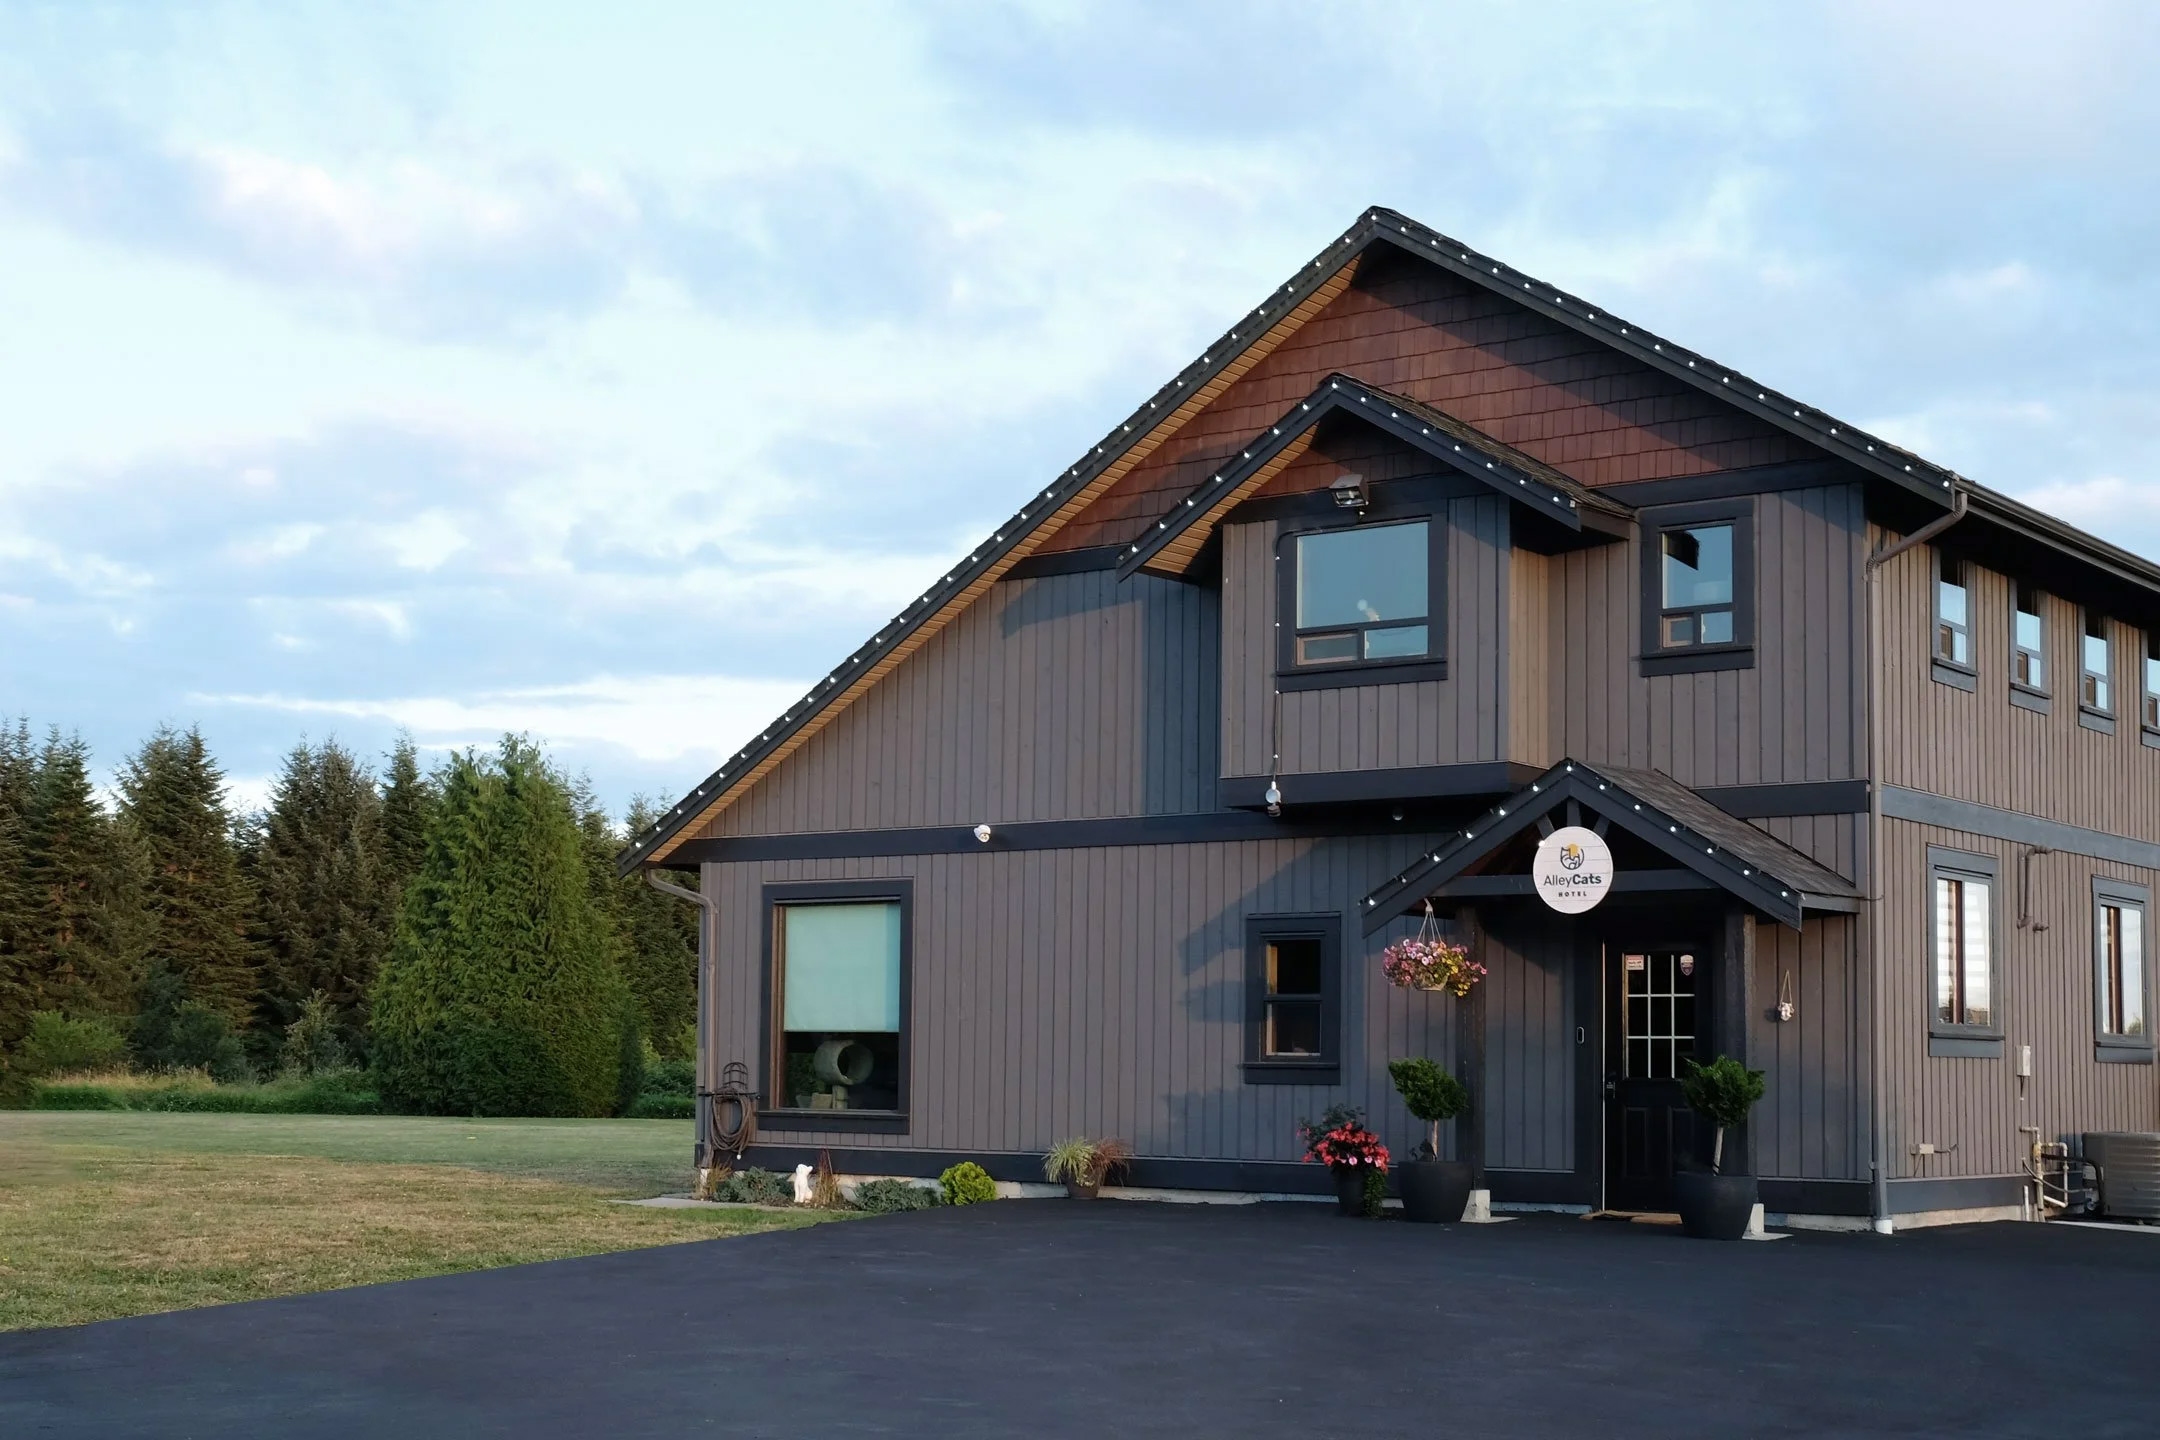
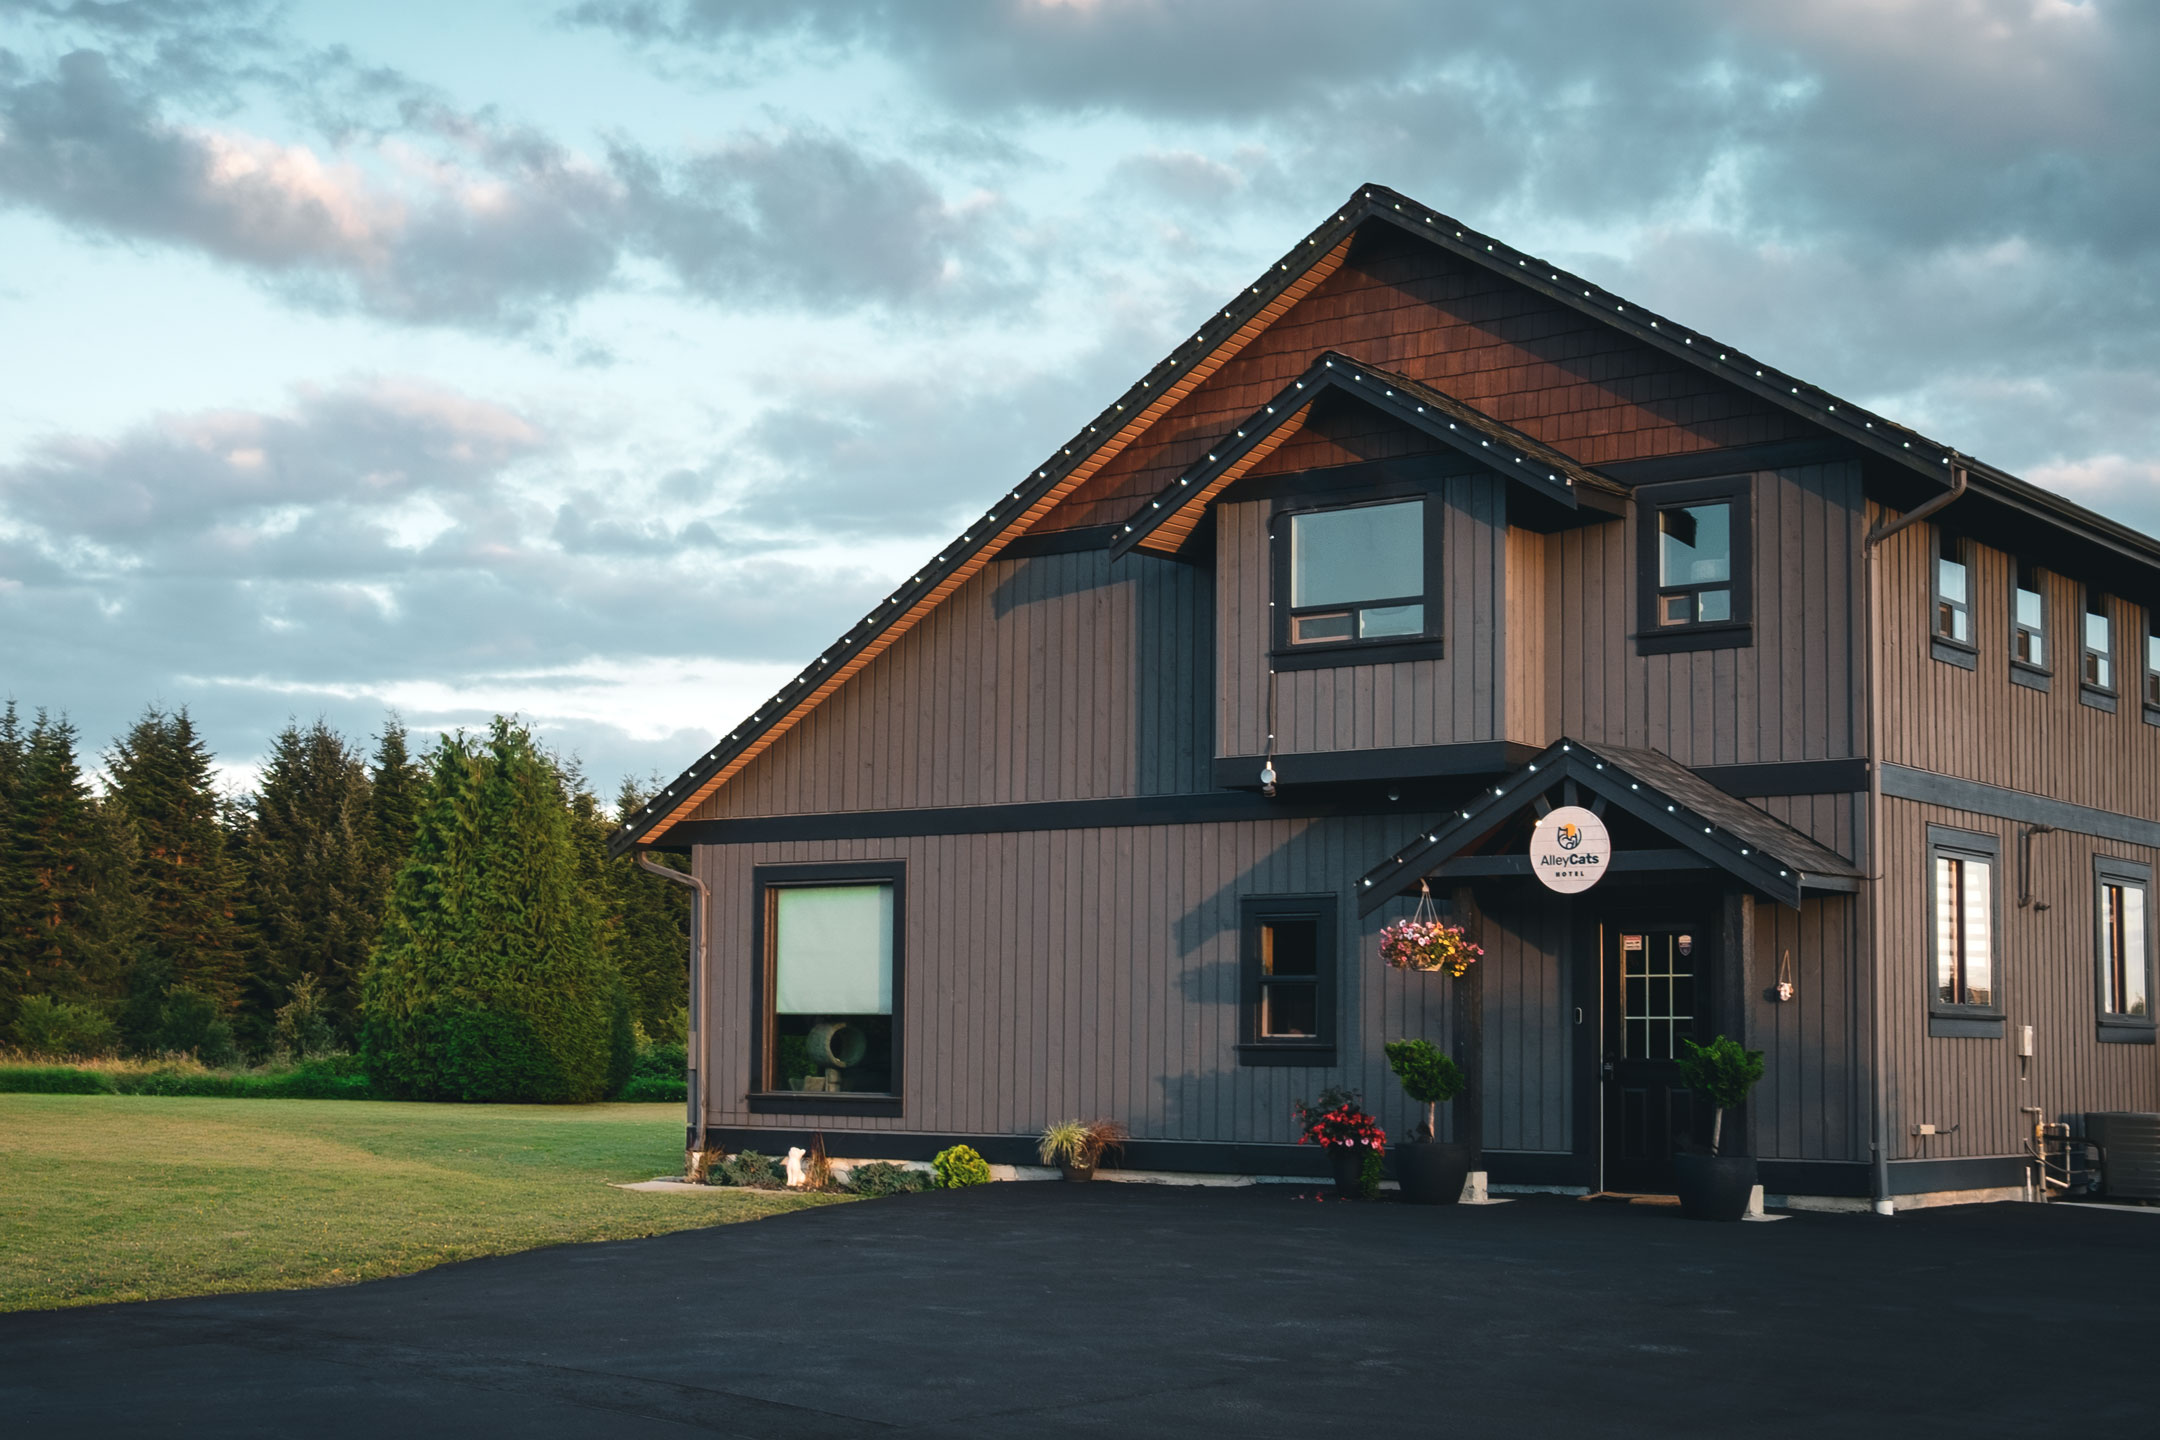
Removing portal.html because redundant

diff --git a/docs/index.html b/docs/index.html
@@ -72,7 +72,7 @@
       <nav>
         <a href="rates.html">Rates</a><a href="guidelines.html">Guidelines</a
         ><a href="about.html">About Us</a
-        ><a class="original-button" href="portal.html">Book Now</a>
+        ><a class="original-button" href="book.html">Book Now</a>
       </nav>
     </header>
     <main>
@@ -273,7 +273,7 @@
           <ol>
             <li>
               <span
-                ><a href="portal.html"
+                ><a href="book.html"
                   >Create a user profile on our Guest Portal</a
                 ></span
               >
@@ -304,7 +304,7 @@
             paid.<br />It is highly recommended to book in advance for longer stays
             or during peak holiday seasons.
           </p>
-          <a class="original-button" href="portal.html">Book Now</a>
+          <a class="original-button" href="book.html">Book Now</a>
         </div>
       </section>
     </main>

diff --git a/docs/about.html b/docs/about.html
@@ -70,7 +70,7 @@
       <nav>
         <a href="rates.html">Rates</a><a href="guidelines.html">Guidelines</a
         ><a href="about.html">About Us</a
-        ><a class="original-button" href="portal.html">Book Now</a>
+        ><a class="original-button" href="book.html">Book Now</a>
       </nav>
     </header>
     <main>

diff --git a/docs/guidelines.html b/docs/guidelines.html
@@ -74,7 +74,7 @@
       <nav>
         <a href="rates.html">Rates</a><a href="guidelines.html">Guidelines</a
         ><a href="about.html">About Us</a
-        ><a class="original-button" href="portal.html">Book Now</a>
+        ><a class="original-button" href="book.html">Book Now</a>
       </nav>
     </header>
     <main>

diff --git a/docs/rates.html b/docs/rates.html
@@ -73,7 +73,7 @@
       <nav>
         <a href="rates.html">Rates</a><a href="guidelines.html">Guidelines</a
         ><a href="about.html">About Us</a
-        ><a class="original-button" href="portal.html">Book Now</a>
+        ><a class="original-button" href="book.html">Book Now</a>
       </nav>
     </header>
     <main>

diff --git a/docs/cameras.html b/docs/cameras.html
@@ -72,7 +72,7 @@
       <nav>
         <a href="rates.html">Rates</a><a href="guidelines.html">Guidelines</a
         ><a href="about.html">About Us</a>
-        <a class="original-button" href="portal.html">Book Now</a>
+        <a class="original-button" href="book.html">Book Now</a>
       </nav>
     </header>
 

diff --git a/docs/new-customer.html b/docs/new-customer.html
@@ -55,7 +55,7 @@
       <nav>
         <a href="rates.html">Rates</a><a href="guidelines.html">Guidelines</a
         ><a href="about.html">About Us</a>
-        <a class="original-button" href="portal.html">Book Now</a>
+        <a class="original-button" href="book.html">Book Now</a>
       </nav>
     </header>
 
